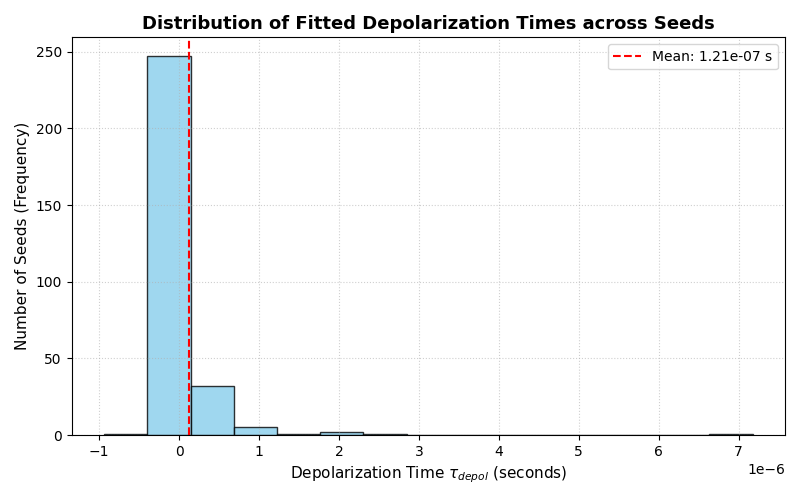
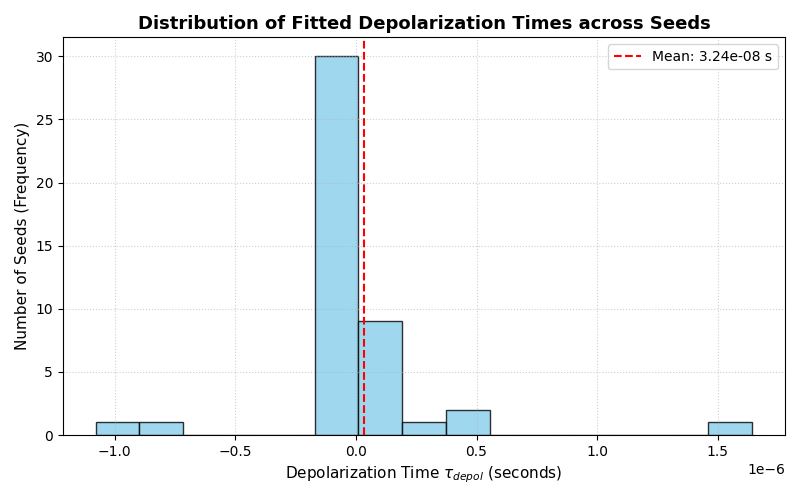
updates

diff --git a/Damping Ring/AL_sim_recreation.py b/Damping Ring/AL_sim_recreation.py
@@ -1,7 +1,9 @@
 #%%
 import xtrack as xt
 import xpart as xp
+import xobjects as xo
 import matplotlib.pyplot as plt
+import numpy as np
 
 #%%
 
@@ -40,8 +42,8 @@ line.insert_element(
     at_s=0.0
 )
 
-nemitt_x = 7600 * 1e-6
-nemitt_y = 7200 * 1e-6
+nemitt_x = 7600 * 1e-9
+nemitt_y = 7200 * 1e-9
 
 
 
@@ -54,11 +56,11 @@ twiss_initial = xt.TwissInit(
 )
 
 #%%
-line.build_tracker()
+line.build_tracker(_context=xo.ContextCpu(omp_num_threads=200))
 # Generate particle bunch
 bunch = xp.build_particles(
     line=line,
-    num_particles=10000,
+    num_particles=500,
     nemitt_x=nemitt_x,
     nemitt_y=nemitt_y,
     sigma_z=1e-4,
@@ -76,15 +78,11 @@ initial_z  = bunch.zeta.copy() * 1e3       # m to mm
 initial_pz = bunch.delta.copy() * p0c_eV/1e6
 #%%
 
-num_turns = 100
-
-monitor=xt.ParticlesMonitor(start_at_turn=0,
-                            stop_at_turn=num_turns,
-                            num_particles=100)
-
+num_turns = 10000
 
 # When tracking with a monitor:
-line.track(bunch, num_turns=num_turns, turn_by_turn_monitor=monitor, with_progress=5)
+line.track(bunch, num_turns=num_turns, turn_by_turn_monitor=True, with_progress=5)
+data=line.record_last_track
 
 #%%
 # Initial phase space plot
@@ -96,6 +94,23 @@ final_z  = bunch.zeta.copy() * 1e3       # m to mm
 final_pz = bunch.delta.copy() * p0c_eV/1e6
 
 #%%
+survival_counts = np.sum(data.state > 0, axis=0)
+turns = np.arange(len(survival_counts))
+
+# 2. Plotting
+plt.figure(figsize=(10, 6))
+plt.plot(turns, survival_counts, color='firebrick', linewidth=2)
+
+plt.title(f'Particle Survival over {len(turns)} Turns', fontsize=14)
+plt.xlabel('Turn Number', fontsize=12)
+plt.ylabel('Number of Surviving Particles', fontsize=12)
+plt.grid(True, which='both', linestyle=':', alpha=0.6)
+plt.ylim(min(survival_counts)-5, survival_counts[0]+5)  # Set y-axis to start at 0
+plt.legend()
+
+
+# 3. Save the plot
+plt.show()
 
 fig, (ax1, ax2, ax3) = plt.subplots(1, 3, figsize=(18, 5.5))
 

diff --git a/spin_tracking.py b/spin_tracking.py
@@ -36,9 +36,9 @@ line=pdr.lines['ring']
 line.configure_spin('auto')
 
 max_seed_value = np.iinfo(np.uint32).max  
-num_seeds=300
+num_seeds=50
 seeds = np.random.randint(0, max_seed_value, size=num_seeds)
-scan_turns=100000
+scan_turns=10000
 long_scan_turns=100000
 
 P_BKS, tau_BKS, P_DKM, tau_DKM, tau_depol, tau_pol, P_eq = [], [], [], [], [], [], []
@@ -96,7 +96,7 @@ print(len(failed_misalignments))
 #%%
 
 line.discard_tracker()
-line.build_tracker(_context=xo.ContextCpu(omp_num_threads=0))
+line.build_tracker(_context=xo.ContextCpu(omp_num_threads='auto'))
 
 for particles, tw in zip(prepped_particles, prepped_twiss):
     for i, seed in enumerate(seeds):
@@ -185,7 +185,7 @@ for group_name, df_group in [('top_3', top_3), ('bottom_3', bottom_3)]:
         print(f"Running deep 100k track for {group_name} - Seed {seed_val}...")
 
         line.discard_tracker()
-        line.build_tracker(_context=xo.ContextCpu(omp_num_threads=0))
+        line.build_tracker(_context=xo.ContextCpu(omp_num_threads='auto'))
         
         line=misalignments(line,0.2e-3,seed=seed_val)
 
@@ -216,7 +216,7 @@ for group_name, df_group in [('top_3', top_3), ('bottom_3', bottom_3)]:
 
         line.configure_radiation('quantum')
         line.discard_tracker()
-        line.build_tracker(_context=xo.ContextCpu(omp_num_threads=0))
+        line.build_tracker(_context=xo.ContextCpu(omp_num_threads='auto'))
 
         # Track for full long duration
         line.track(particles, num_turns=long_scan_turns, turn_by_turn_monitor=True, with_progress=10)
